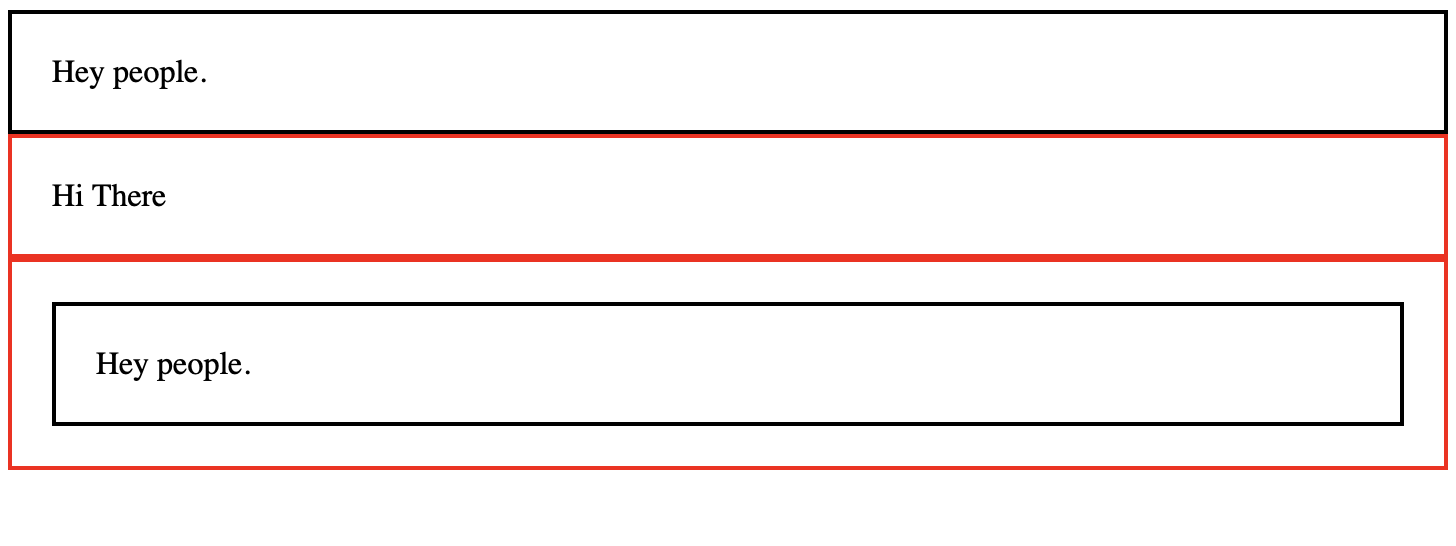
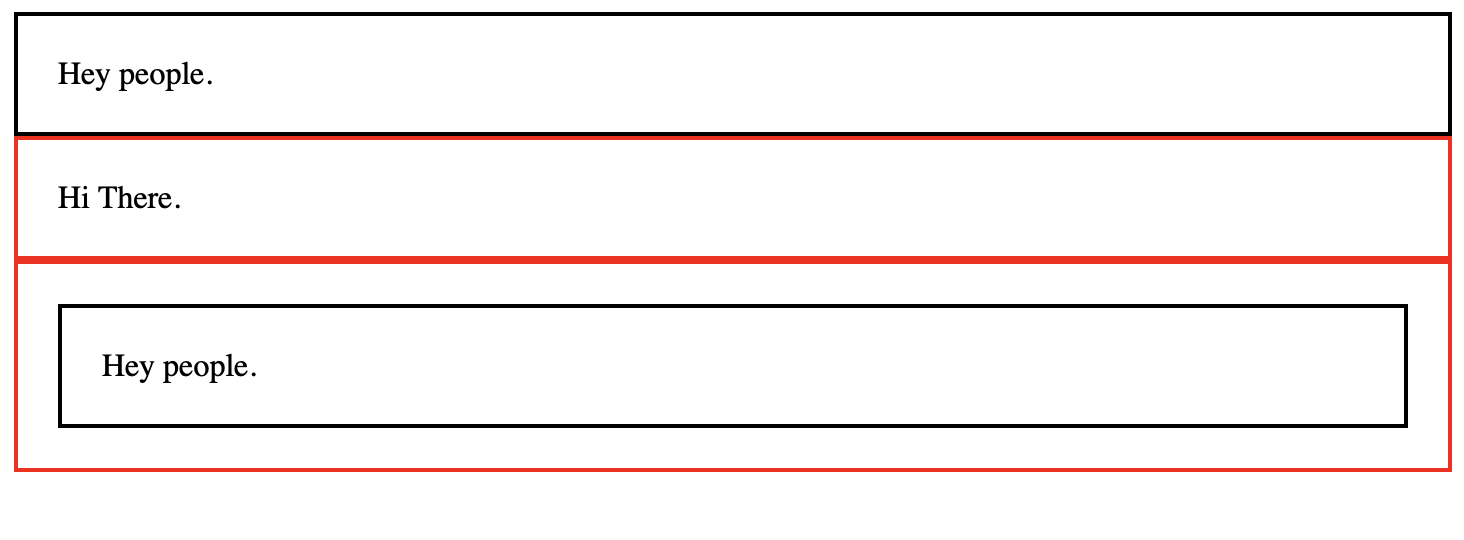
ComponentAsProps.jsx

Changed region(s): [[0.0, 0.0, 1.0, 0.8889]]

diff --git a/ComponentAsProps/ComponentAsProps.jsx b/ComponentAsProps/ComponentAsProps.jsx
@@ -1,12 +1,12 @@
 function ComponentAsProps(){
-                                                                     /* Here we are passing the component as input/props to another component. */
+                                                                     /* Here we are passing the component as input/props/parameter to another component. */
     return <div>
 
-        <Wrapper1 innerComponent={<TextComponent />}></Wrapper1>
-        <Wrapper2><div>Hi There</div></Wrapper2>
-        <Wrapper2><Wrapper1 innerComponent={<TextComponent />}></Wrapper1></Wrapper2>
+                <Wrapper1 innerComponent={<TextComponent />}></Wrapper1>
+                <Wrapper2><div>Hi There.</div></Wrapper2>
+                <Wrapper2><Wrapper1 innerComponent={<TextComponent />}></Wrapper1></Wrapper2>
     
-    </div>
+           </div>
                                                                      /* After the "Wrapper2" whatever written in there all those can be consider as a child, a child can be either a component or an XML expression also. */
 }
 
@@ -14,9 +14,9 @@ function TextComponent(){
 
     return <div>
 
-        Hey people.
+                Hey people.
 
-    </div>
+           </div>
 
 }
 
@@ -24,9 +24,9 @@ function Wrapper1({innerComponent}){
 
     return <div style={{border:"2px solid black", padding:"20px"}}>
 
-    {innerComponent}
+                {innerComponent}
 
-    </div>
+           </div>
 
 }
 
@@ -34,9 +34,9 @@ function Wrapper2({children}){
 
     return <div style={{border:"2px solid red", padding:"20px"}}>
 
-    {children}
+                {children}
 
-    </div>
+           </div>
 
 }
 